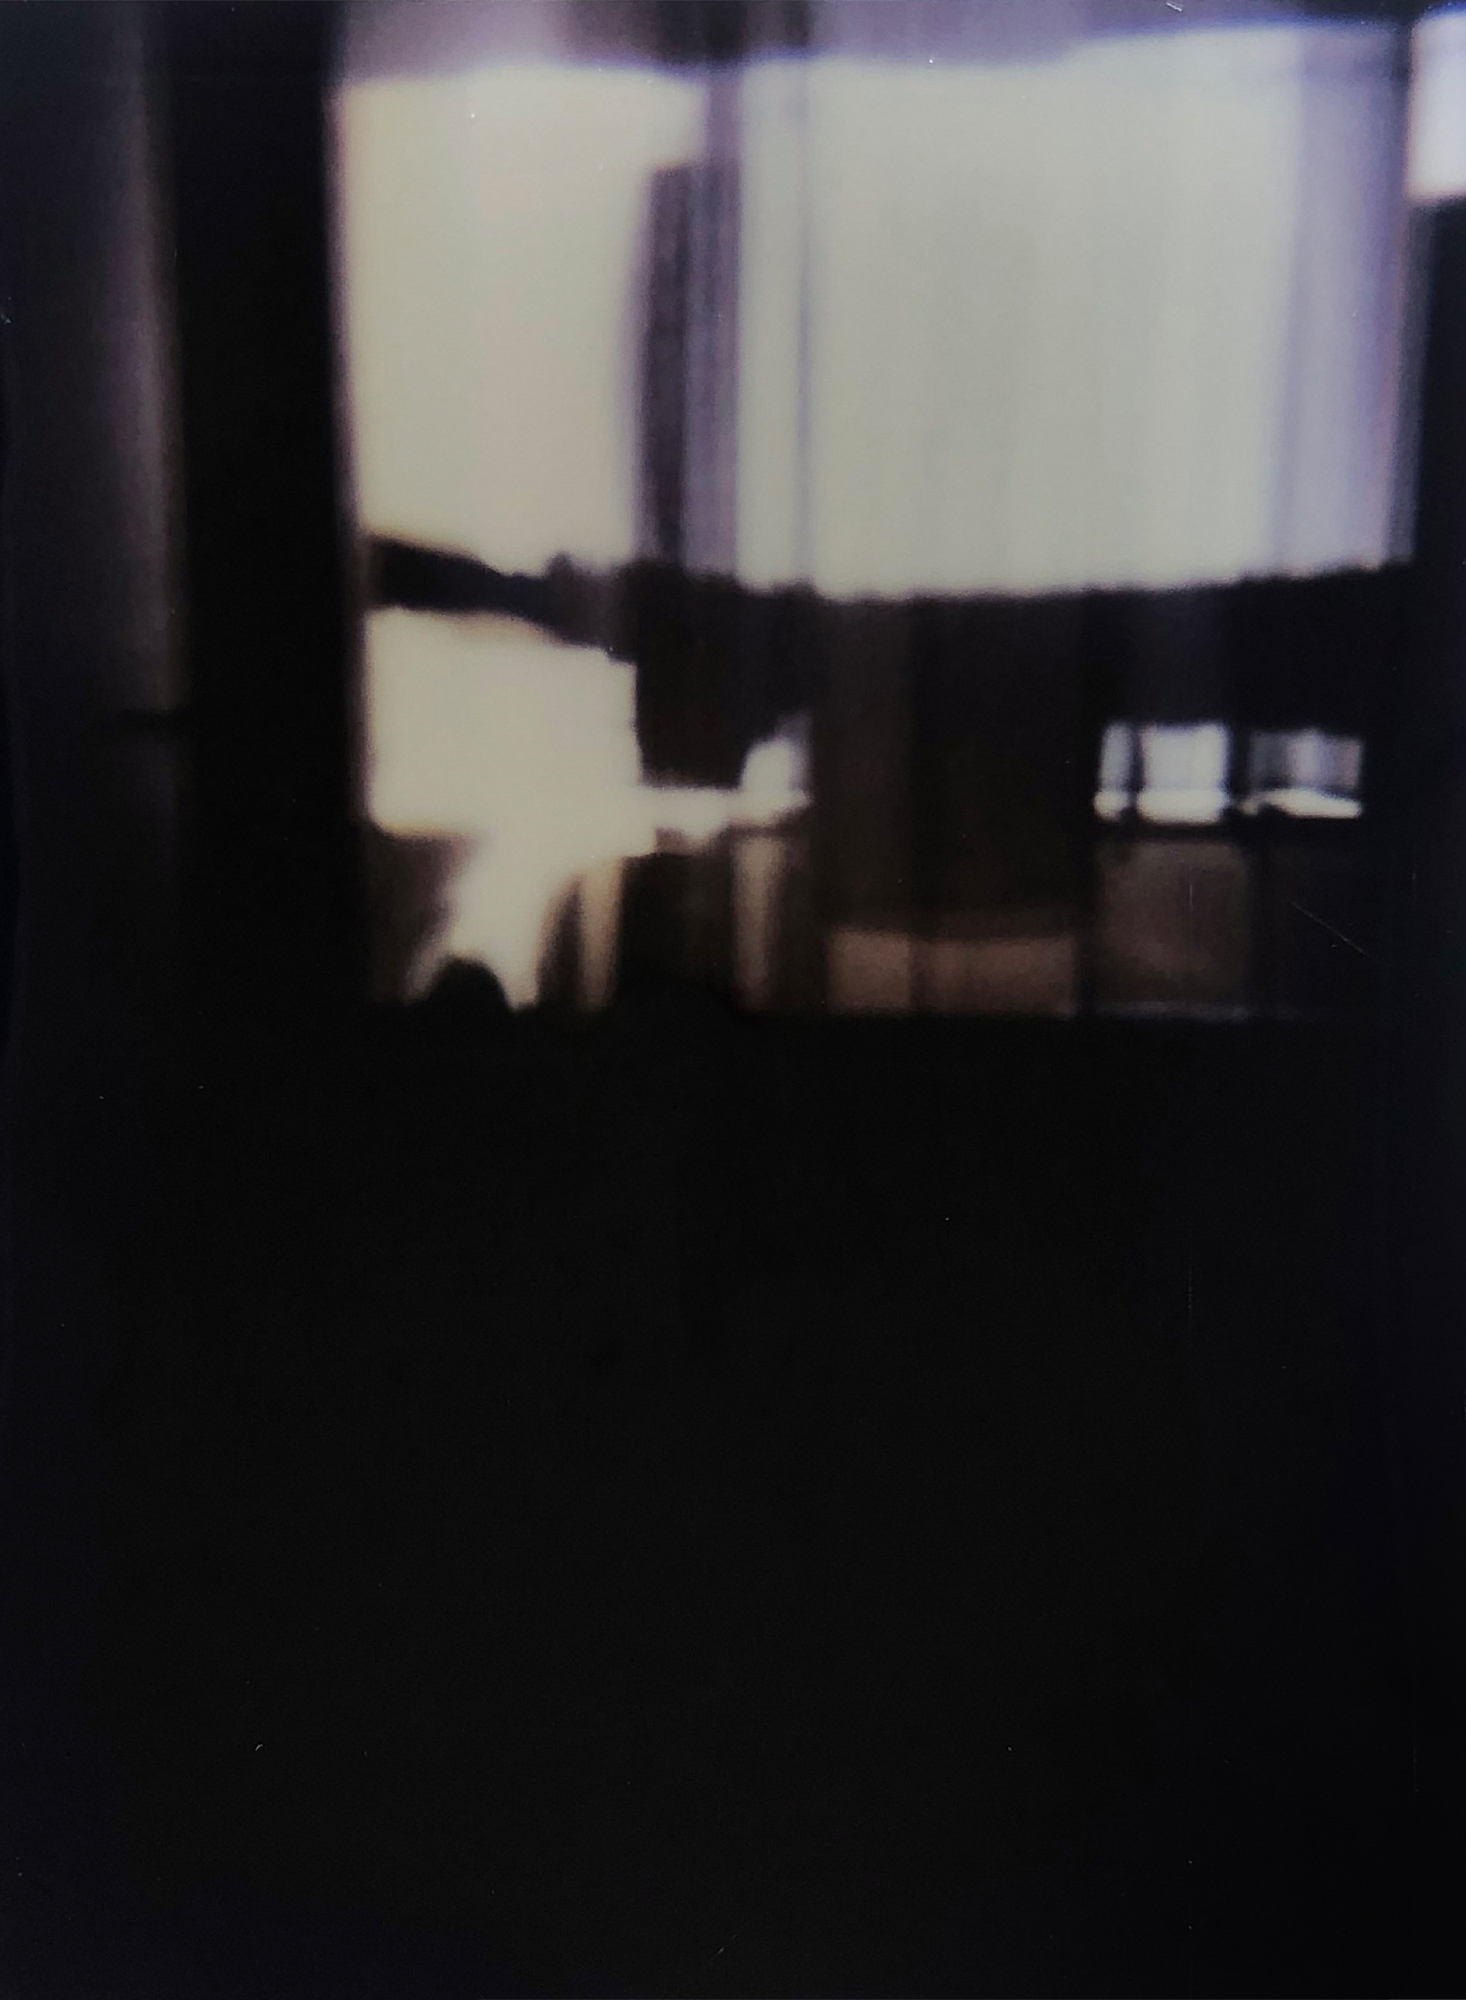
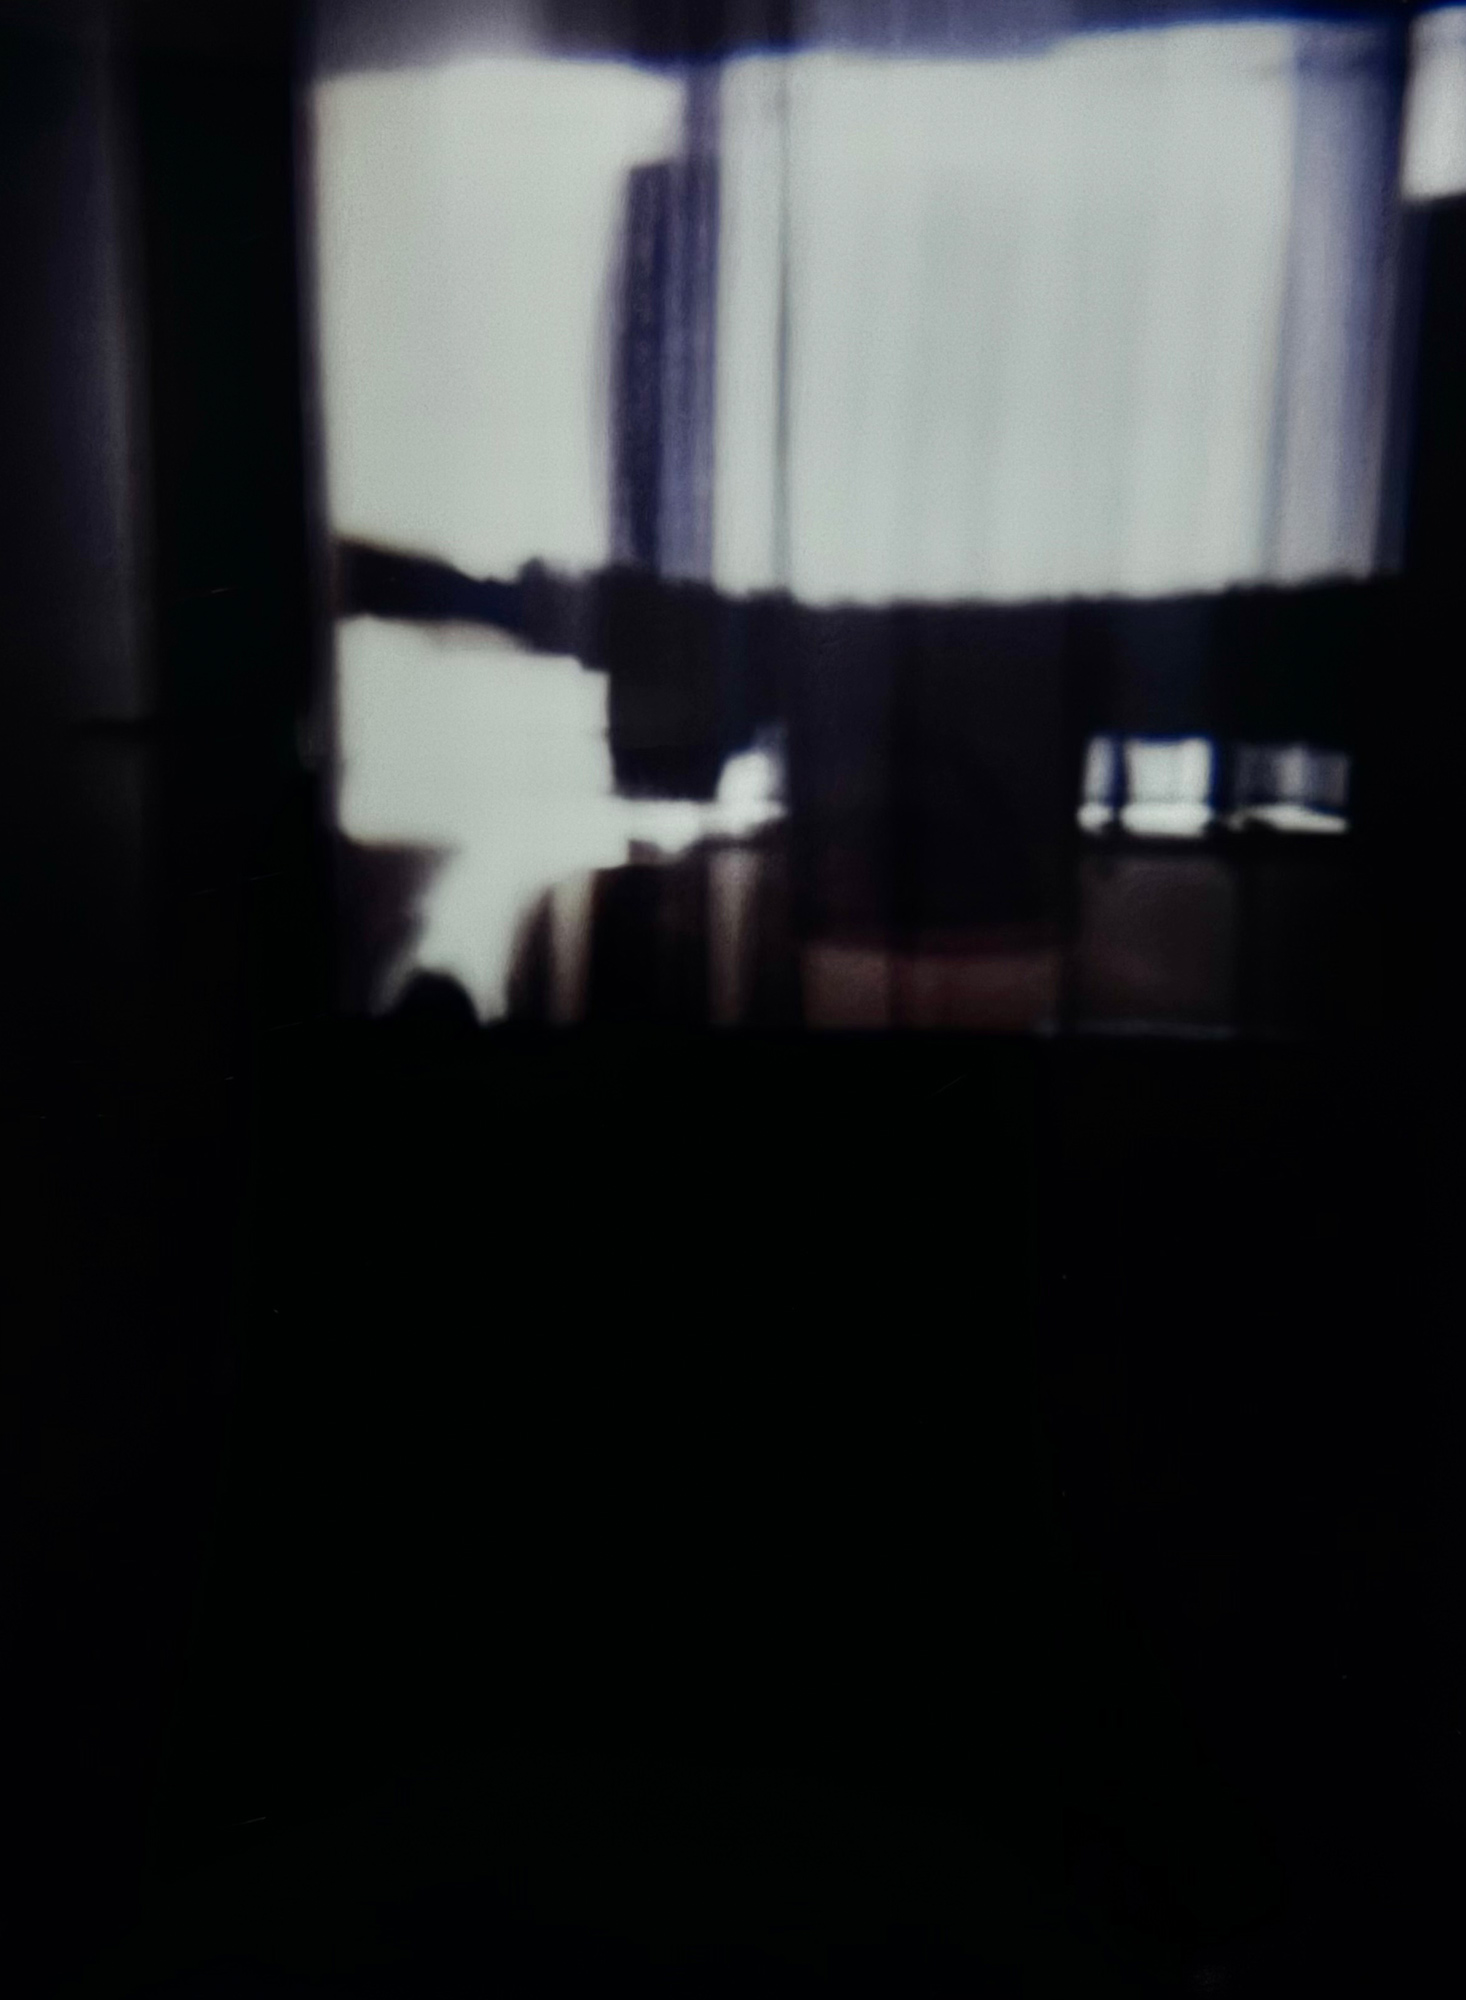
update

diff --git a/_posts/2023-12-10-film-12-6.md b/_posts/2023-12-10-film-12-6.md
@@ -2,8 +2,8 @@
 camera: Lomo'Instant
 film: Fujifilm Instax Mini
 location: Armenian, Yerevan
-date: 2023-10-11T23:00:01.000+00:00
+date: 2023-12-10T23:00:01.000+00:00
 description: ''
-photo: '/uploads/2023/10/Untitled-5.jpg'
+photo: '/uploads/2023/10/Untitled-3.jpg'
 instax: true
 ---
